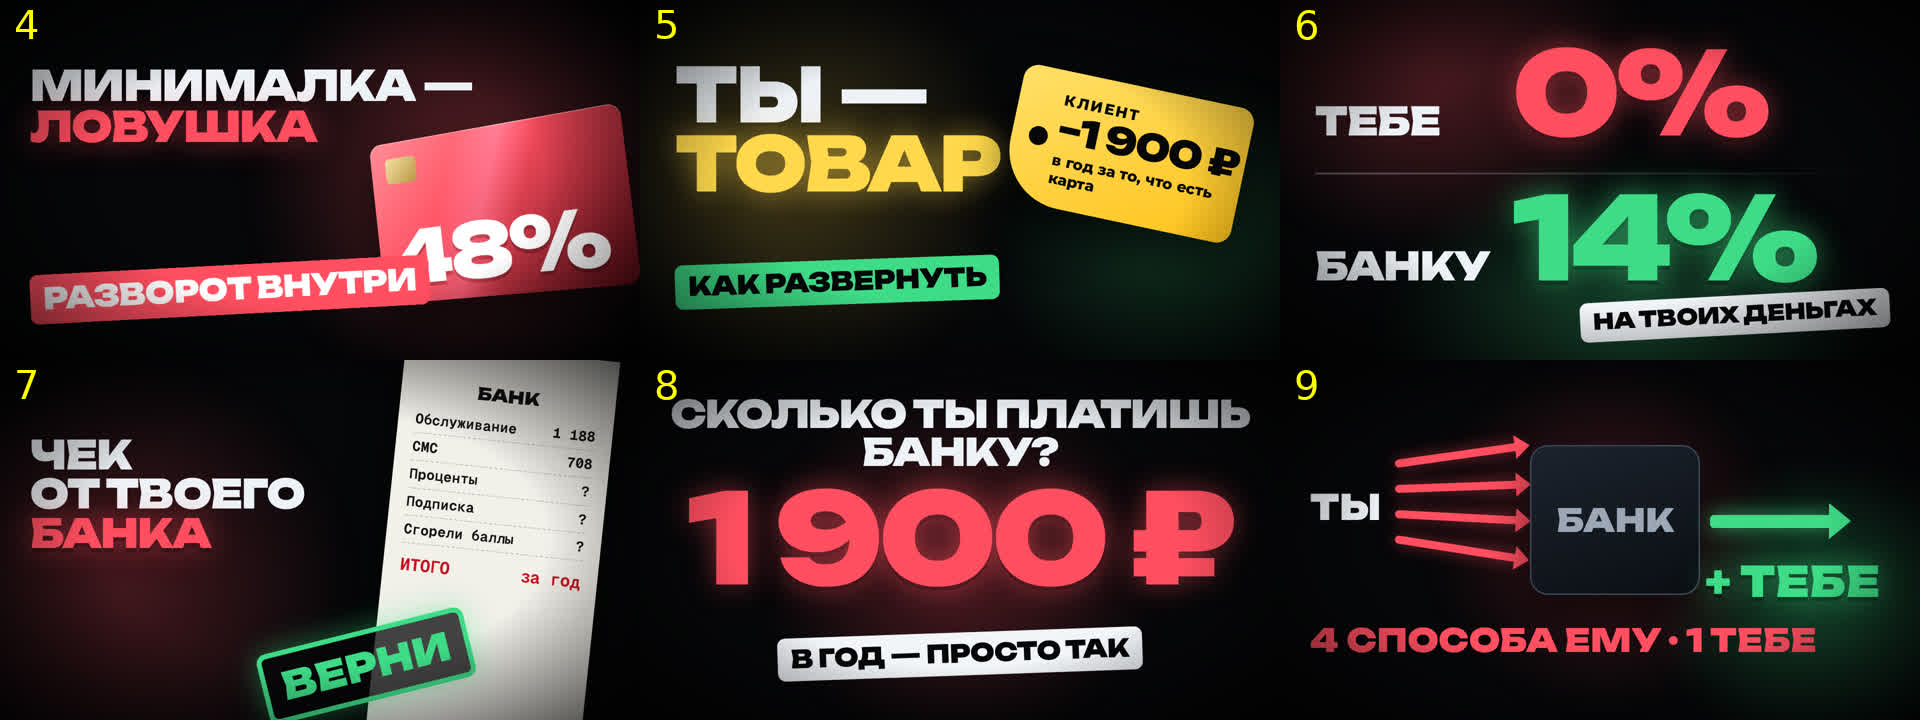
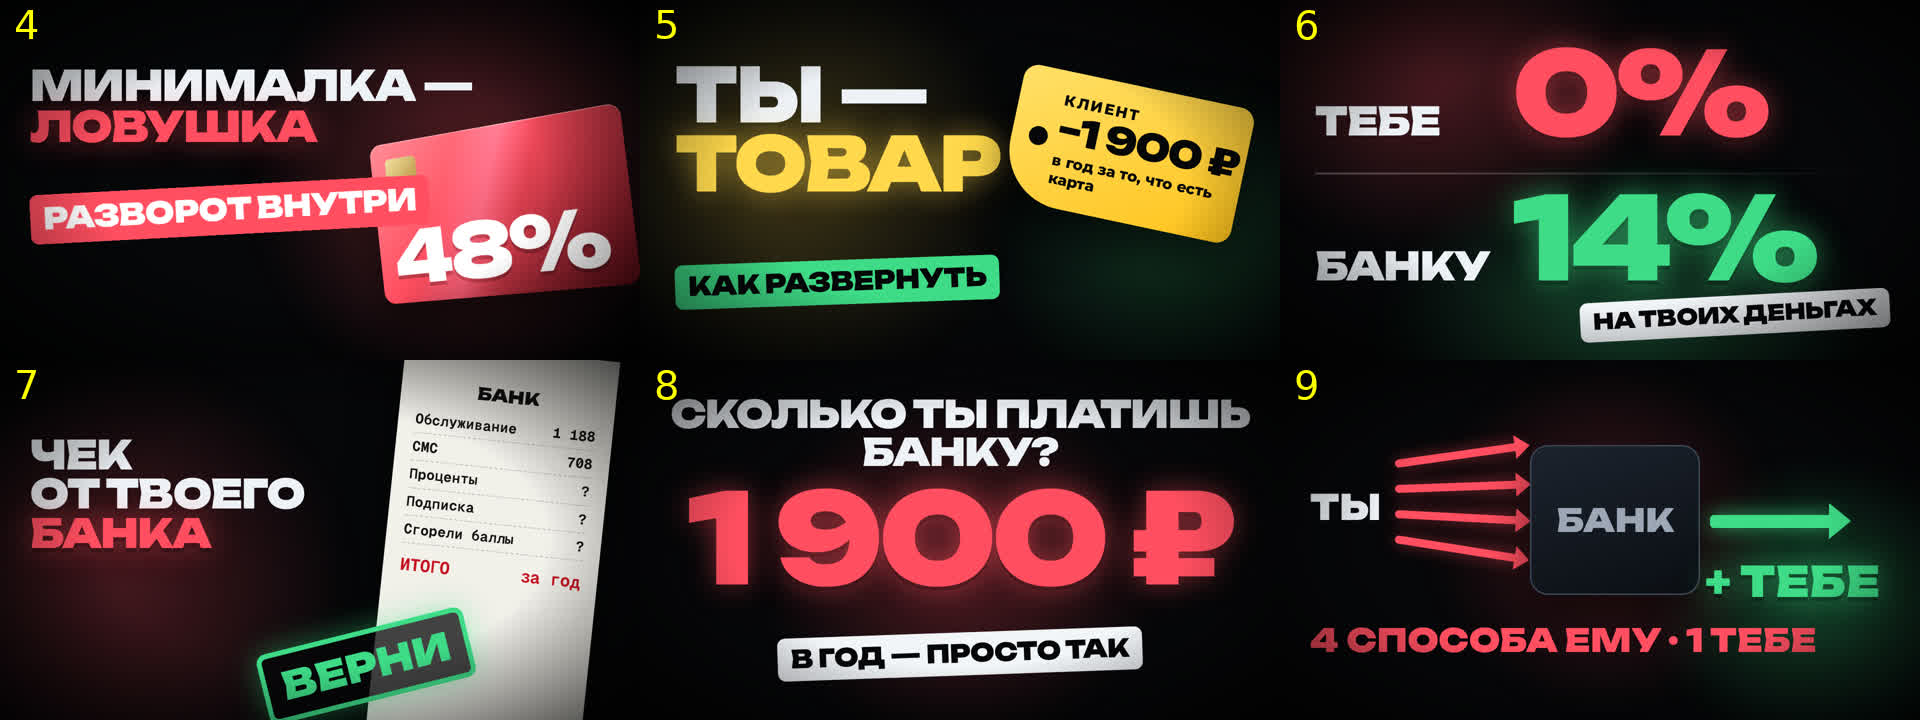
Превью v4: плашка не перекрывает 48 %
Claude-Session: https://claude.ai/code/session_01RfCfKDkbyGyDNmw4SWPkFj

Changed region(s): [[0.0, 0.2444, 0.2188, 0.4583]]

diff --git a/youtube/02-bank-earns/thumb/thumb.html b/youtube/02-bank-earns/thumb/thumb.html
@@ -54,7 +54,7 @@
   .v4 .card { left: 720px; top: 250px; width: 540px; height: 340px; transform: perspective(1300px) rotateY(-20deg) rotateZ(-7deg); background: linear-gradient(135deg, #ff8a95, #ff4d5e 40%, #5a0c15); }
   .v4 .card .pct { position: absolute; left: 34px; bottom: 20px; font: 900 150px/1 "Unb"; color: #fff; letter-spacing: -.05em; text-shadow: 0 8px 0 rgba(0,0,0,.25); }
   .v4 .t { position: absolute; left: 60px; top: 130px; font-size: 84px; line-height: .98; }
-  .v4 .plate { position: absolute; left: 60px; top: 530px; transform: rotate(-3deg); font-size: 60px; background: #ff4d5e; color: #fff; }
+  .v4 .plate { position: absolute; left: 60px; top: 370px; transform: rotate(-3deg); font-size: 60px; background: #ff4d5e; color: #fff; }
   /* v5: «ты — товар» с ценником */
   .v5 .t { position: absolute; left: 70px; top: 120px; font-size: 150px; line-height: .92; }
   .v5 .tag { position: absolute; left: 740px; top: 170px; width: 470px; border-radius: 30px 30px 30px 120px; background: linear-gradient(150deg, #ffe066, #ffc21a);
